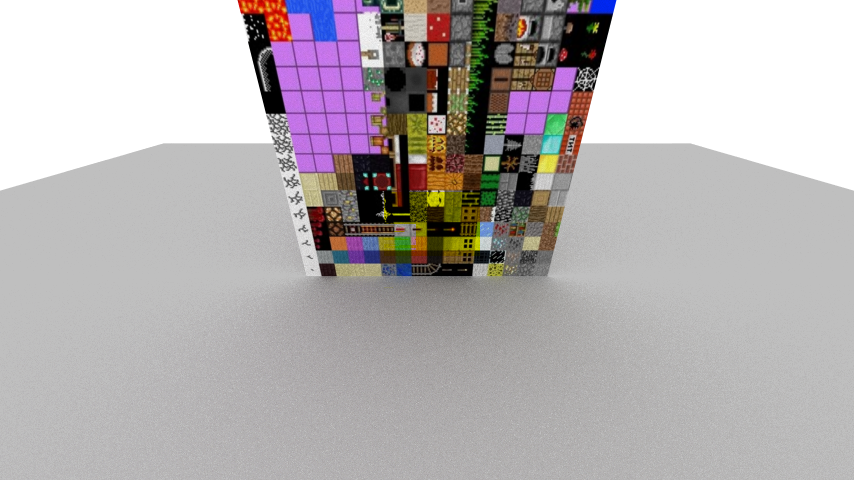
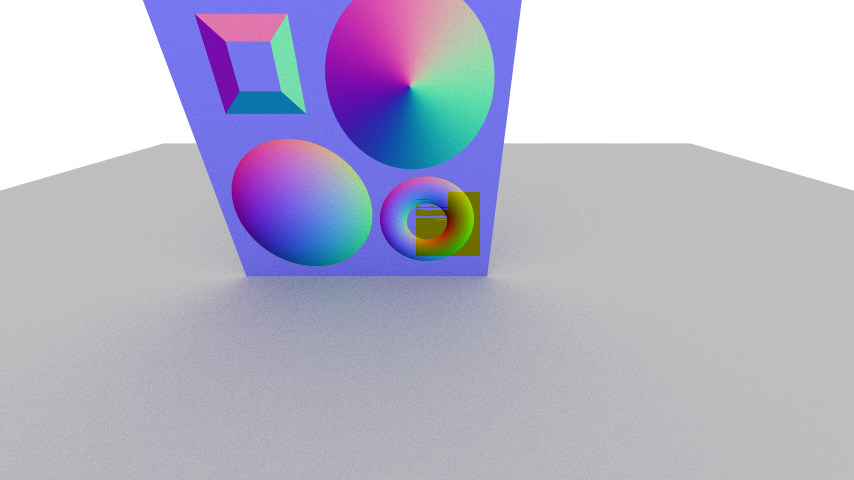
Testing new textures

diff --git a/ForceRenderer/Rendering/TileWorker.cs b/ForceRenderer/Rendering/TileWorker.cs
@@ -2,6 +2,7 @@
 using System.Threading;
 using System.Threading.Tasks;
 using CodeHelpers;
+using CodeHelpers.Diagnostics;
 using CodeHelpers.Mathematics;
 using CodeHelpers.Threads;
 using ForceRenderer.Textures;
@@ -173,7 +174,11 @@ namespace ForceRenderer.Rendering
 			if (aborted) state.Break();
 
 			//Store pixel
-			RenderBuffer[position] = ((Float4)pixel.Color).Replace(3, 1f);
+
+			// ((Float4)pixel.Color).Replace(3, 1f);
+			var a = pixel.Color;
+
+			RenderBuffer[position] = new Float4(a.x, a.y, a.z, 1f);
 			Interlocked.Increment(ref _completedPixel);
 		}
 
@@ -226,15 +231,11 @@ namespace ForceRenderer.Rendering
 
 			/// <summary>
 			/// Accumulates the color <paramref name="value"/> to pixel.
+			/// Returns false if the input was rejected because it was invalid.
 			/// </summary>
-			public void Accumulate(Float3 value)
+			public bool Accumulate(Float3 value)
 			{
-				value = new Float3 //NaN gate
-				(
-					float.IsNaN(value.x) ? 0f : value.x,
-					float.IsNaN(value.y) ? 0f : value.y,
-					float.IsNaN(value.z) ? 0f : value.z
-				);
+				if (float.IsNaN(value.x) || float.IsNaN(value.y) || float.IsNaN(value.z)) return false; //NaN gate
 
 				accumulation++;
 
@@ -243,6 +244,8 @@ namespace ForceRenderer.Rendering
 
 				average += (newValue - oldMean) / accumulation;
 				squared += (newValue - average) * (newValue - oldMean);
+
+				// return true;
 			}
 		}
 

diff --git a/ForceRenderer/Scenes.cs b/ForceRenderer/Scenes.cs
@@ -51,15 +51,13 @@ namespace ForceRenderer
 			Texture2D texture = Texture2D.Load("Assets/Textures/MinecraftTexture.bmp");
 			Texture2D normal = Texture2D.Load("Assets/Textures/WikiNormalMap.png");
 
-			Material material = new Diffuse {Albedo = Float3.one, AlbedoMap = texture};
-			// Material material = new Diffuse {Albedo = Float3.one, NormalMap = normal};
-			// Material emissive = new Emissive {Emission = (Float3)12f};
+			// Material material = new Diffuse {Albedo = Float3.one, AlbedoMap = texture};
+			Material material = new Diffuse {Albedo = Float3.one, AlbedoMap = normal};
 
 			Cubemap = new SolidCubemap(Color32.white);
-			// Cubemap = null;
 
-			// children.Add(new PlaneObject(emissive, (Float2)18f) {Position = new Float3(0f, 0f, 8f), Rotation = new Float3(-90f, 0f, 0f)});
-			children.Add(new PlaneObject(material, Float2.one * 4f) {Position = new Float3(0, 2f, -2f), Rotation = new Float3(-90f, 0f, 0f)});
+			// children.Add(new PlaneObject(material, Float2.one * 4f) {Position = new Float3(0, 2f, -5.5f), Rotation = new Float3(-90f, 0f, 0f)});
+			children.Add(new PlaneObject(material, Float2.one * 4f) {Position = new Float3(-1f, 2f, -2f), Rotation = new Float3(-90f, 0f, 0f)});
 		}
 	}
 
